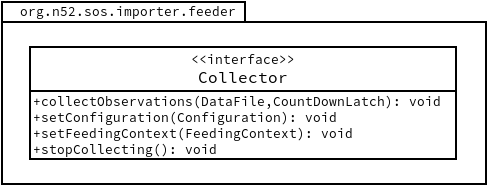
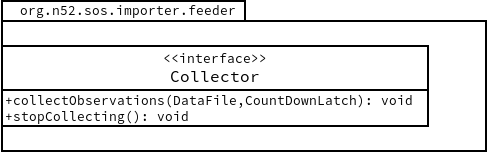
Update documentation

Changed region(s): [[0.0, 0.2368, 0.9548, 0.8684], [0.0, 0.0, 1.0, 0.1579], [0.0, 0.9737, 1.0, 1.0]]

diff --git a/README.md b/README.md
@@ -1,7 +1,7 @@
 # 52°North SOS Importer
 [:arrow_forward: How to Run](#how-to-run)&nbsp;&nbsp;&nbsp;[:nut_and_bolt: How to Build](#how-to-build)&nbsp;&nbsp;&nbsp;[:pencil: How to Develop](#developers)
 
-**Master**: <a href="https://travis-ci.org/52North/sos-importer"><img src="https://travis-ci.org/52North/sos-importer.svg?branch=master" /></a>&nbsp;&nbsp;&nbsp;**Develop**: <a href="https://travis-ci.org/52North/sos-importer"><img src="https://travis-ci.org/52North/sos-importer.svg?branch=develop" /></a>&nbsp;<sup><a href="#branches"><b>*</b></a></sup>
+**Master**: [![Build Status](https://build.dev.52north.org/jenkins/buildStatus/icon?job=sos-importer)](https://build.dev.52north.org/jenkins/view/Sensor%20Web/job/sos-importer/)&nbsp;[![volkswagen status](https://auchenberg.github.io/volkswagen/volkswargen_ci.svg?v=1)](https://github.com/auchenberg/volkswagen)&nbsp;<a href="https://travis-ci.org/52North/sos-importer"><img src="https://travis-ci.org/52North/sos-importer.svg?branch=master" /></a>&nbsp;&nbsp;&nbsp;**Develop**: <a href="https://travis-ci.org/52North/sos-importer"><img src="https://travis-ci.org/52North/sos-importer.svg?branch=develop" /></a>&nbsp;<sup><a href="#branches"><b>*</b></a></sup>
 
 ## Description
 
@@ -665,7 +665,7 @@ You can just download example files to see how the application works:
  * List of Dependencies (generated following our [best practice](https://wiki.52north.org/bin/view/Documentation/BestPracticeLicenseManagementInSoftwareProjects#maven_license_plugin_by_codehaus) documentation): [THIRD-PARTY.txt](https://wiki.52north.org/pub/SensorWeb/SosImporter/THIRD-PARTY.txt)
 
 
-## Extend `CsvParser`
+## Implement `CsvParser`
 
 _For providing your own `CsvParser` implementation_
 
@@ -679,26 +679,56 @@ In addition, you need to add `<CsvParser>` in your configuration to `<CsvMetadat
 
 The `CsvParser.init(..)` is called after the constructor and should result in a ready-to-use parser instance. `CsvParser.readNext()` returns the next "line" of values that should be processed as `String[]`. An `IOException` could be thrown if something unexpected happens during the read operation. The `CsvParser.getSkipLimit()` should return 0, if number of lines == number of observations, or the difference between line number and line index.
 
-## Extend `Collector`
+## Implement `Collector`
 
 _For providining your own `Collector` implementation_
 
 Since version 0.5.0, it is possible to implement your own `Collector` type, if the already implemented implementations are not sufficient for your use case.
 
-<img src="src/site/images/interface-collector.png" alt="Collector interface with methds" />
+<img src="src/site/images/interface-collector.png" alt="Collector interface with methods" />
 
 You need to specifcy the qualified name in the `<CsvMetadata><ObservationCollector>` element.
 
 Methods to implement:
   * `collectObservations(DataFile,CountDownLatch)`:<br />
     Starts the observation collection process. It is called within its own thread in `Feeder.importData(DataFile)`. The collected observations <b>MUST</b> be provided using the `FeederContext.addObservationForImporting(InsertObservation...)` method.
-  * `setConfiguration(Configuration)`:<br/>
-    Sets the `Configuration` of the collector and it is called after the parameterless constructor in `Feeder.Feeder(Configuration)`.
-  * `setFeedingContext(FeedingContext)`:<br />
-    Sets the `FeedingContext` of this collector and it is called after the `setConfiguration(Configuration)` method in `Feeder.Feeder(Configuration)`.
   * `stopCollecting()`:<br />
-  Called by `Feeder` in the case of an exception during handover of observations to the `Importer` implementation via `FeedingContext#addObservationForImporting(InsertObservation...)`. This collector should stop all operations asap including closing threads etc.
+     Called by `Feeder` in the case of an exception during handover of observations to the `Importer` implementation via `FeedingContext#addObservationForImporting(InsertObservation...)`. This collector should stop all operations asap including closing threads etc.
 
+
+## Implement `Importer`
+
+_For providing your own `Importer` implementation._
+
+Since version 0.5.0, it is possible to implement your own `Importer` type, if the already implemented implementations are not sufficient for your use case.
+
+<img src="src/site/images/interface-importer.png" alt="Importer interface with methods" />
+
+You need to specifcy the qualified name in the `<SosMetadata><Importer>` element.
+
+Methods to implement:
+  * `collectObservations(DataFile,CountDownLatch)`:<br />
+
+  * `addObservations(InsertObservation)`:<br />
+
+  * `getFailedObservations()`:<br />
+
+  * `hasFailedObservations()`:<br />
+
+  * `setSosClient(SosClient)`:<br />
+
+  * `startImporting()`:<br />
+
+  * `stopImporting()`:<br />
+
+
+## interfaces
+
+ * `FeedingParticipant`:<br/>
+   * `setConfiguration(Configuration)`:<br/>
+     Sets the `Configuration` of the collector and it is called after the parameterless constructor in `Feeder.Feeder(Configuration)`.
+   * `setFeedingContext(FeedingContext)`:<br />
+     Sets the `FeedingContext` of this collector and it is called after the `setConfiguration(Configuration)` method in `Feeder.Feeder(Configuration)`.
 
 # Troubleshooting/Bugs
 
@@ -713,10 +743,6 @@ If you have any problems, please check the issues section for the sos importer f
 This project follows the  [Gitflow branching model](http://nvie.com/posts/a-successful-git-branching-model/). "master" reflects the latest stable release.
 Ongoing development is done in branch [develop](../../tree/develop) and dedicated feature branches (feature-*).
 
-
-## Build Status
-
-* Master: [![Build Status](http://build.dev.52north.org/jenkins/buildStatus/icon?job=sos-importer)](http://build.dev.52north.org/jenkins/view/Sensor%20Web/job/sos-importer/) [![volkswagen status](https://auchenberg.github.io/volkswagen/volkswargen_ci.svg?v=1)](https://github.com/auchenberg/volkswagen)
 
 ## License
 
